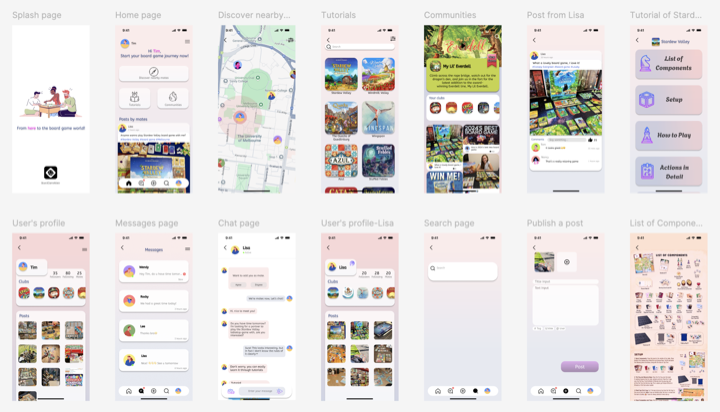
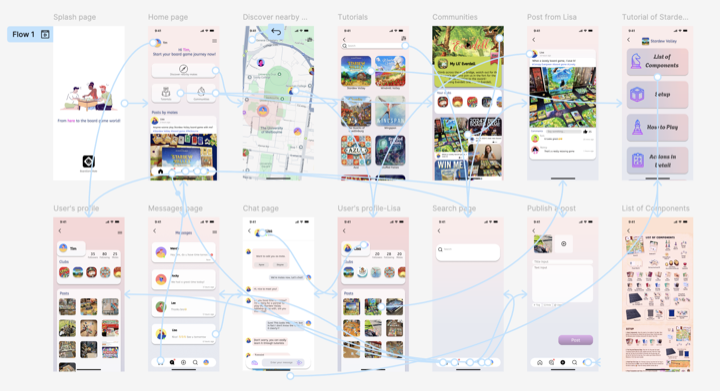
Replace BoardGameMate early interface image

diff --git a/src/components/BoardGameMateIteration.tsx b/src/components/BoardGameMateIteration.tsx
@@ -239,8 +239,8 @@ export function BoardGameMateIteration() {
         <figure className="iteration-early-figure">
           <IterationImage
             file="boardgamemate-early-design"
-            width={1866}
-            height={1068}
+            width={2156}
+            height={1172}
             intermediateWidth={1200}
             sizes="(max-width: 767px) calc(100vw - 44px), (max-width: 1439px) calc(100vw - 9.4vw), 1640px"
             alt="Early BoardGameMate high-fidelity interface overview showing social feed, nearby players, tutorials, communities, profiles and messaging"
